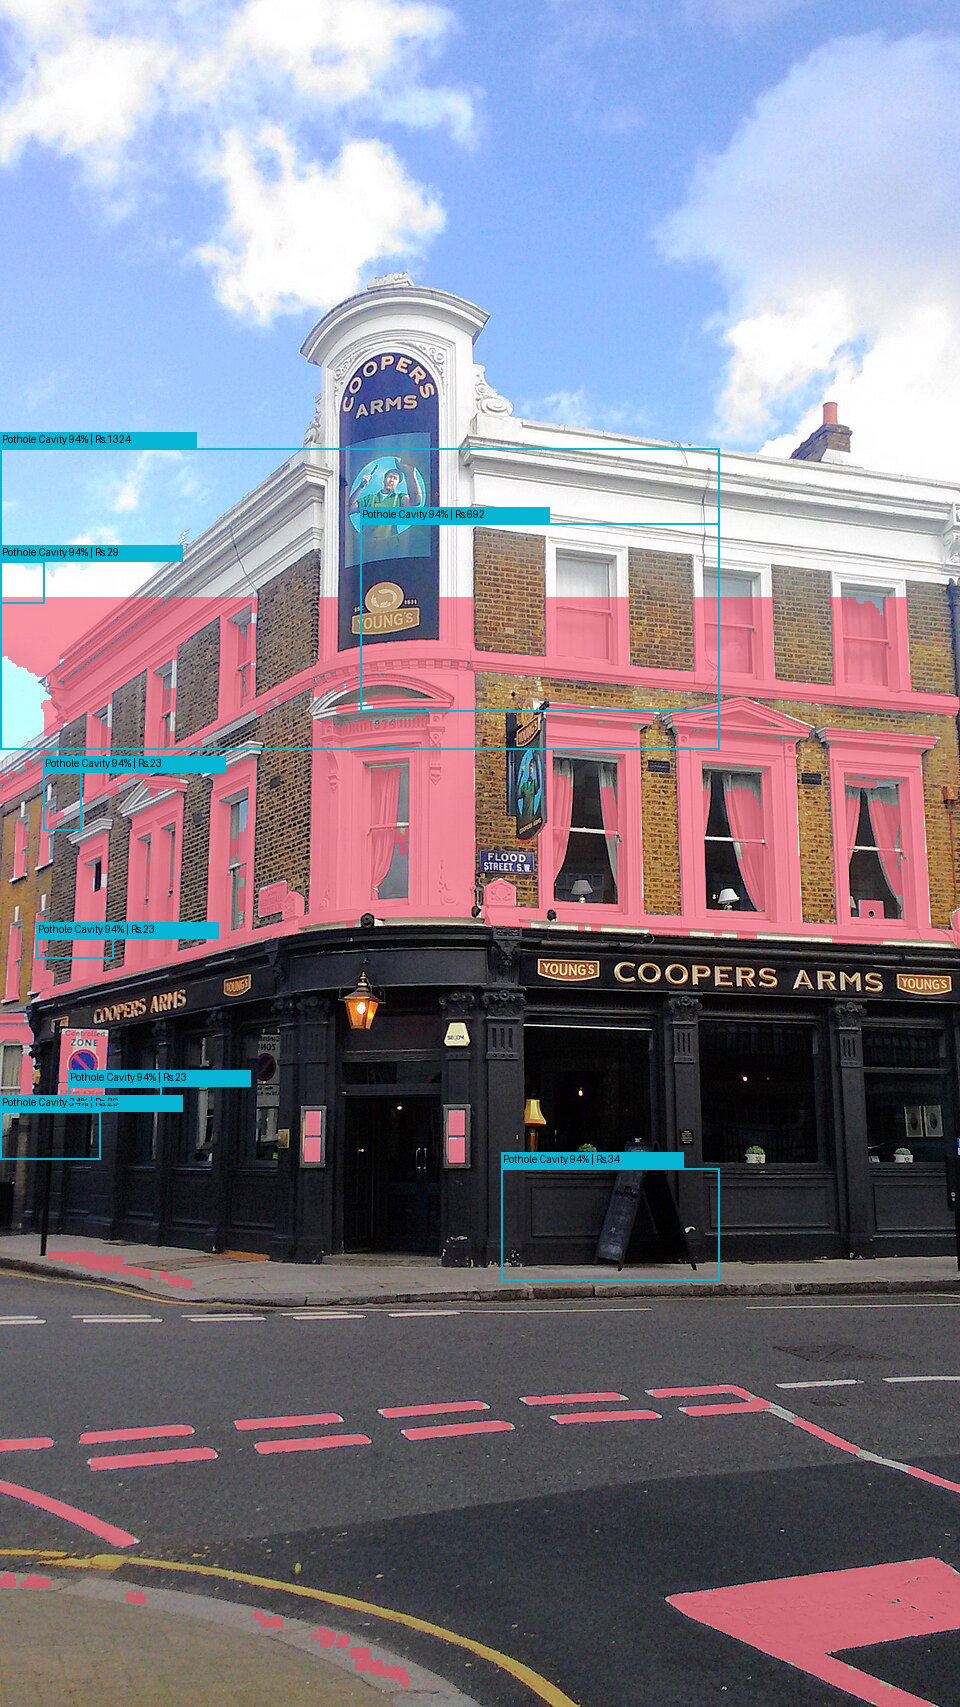
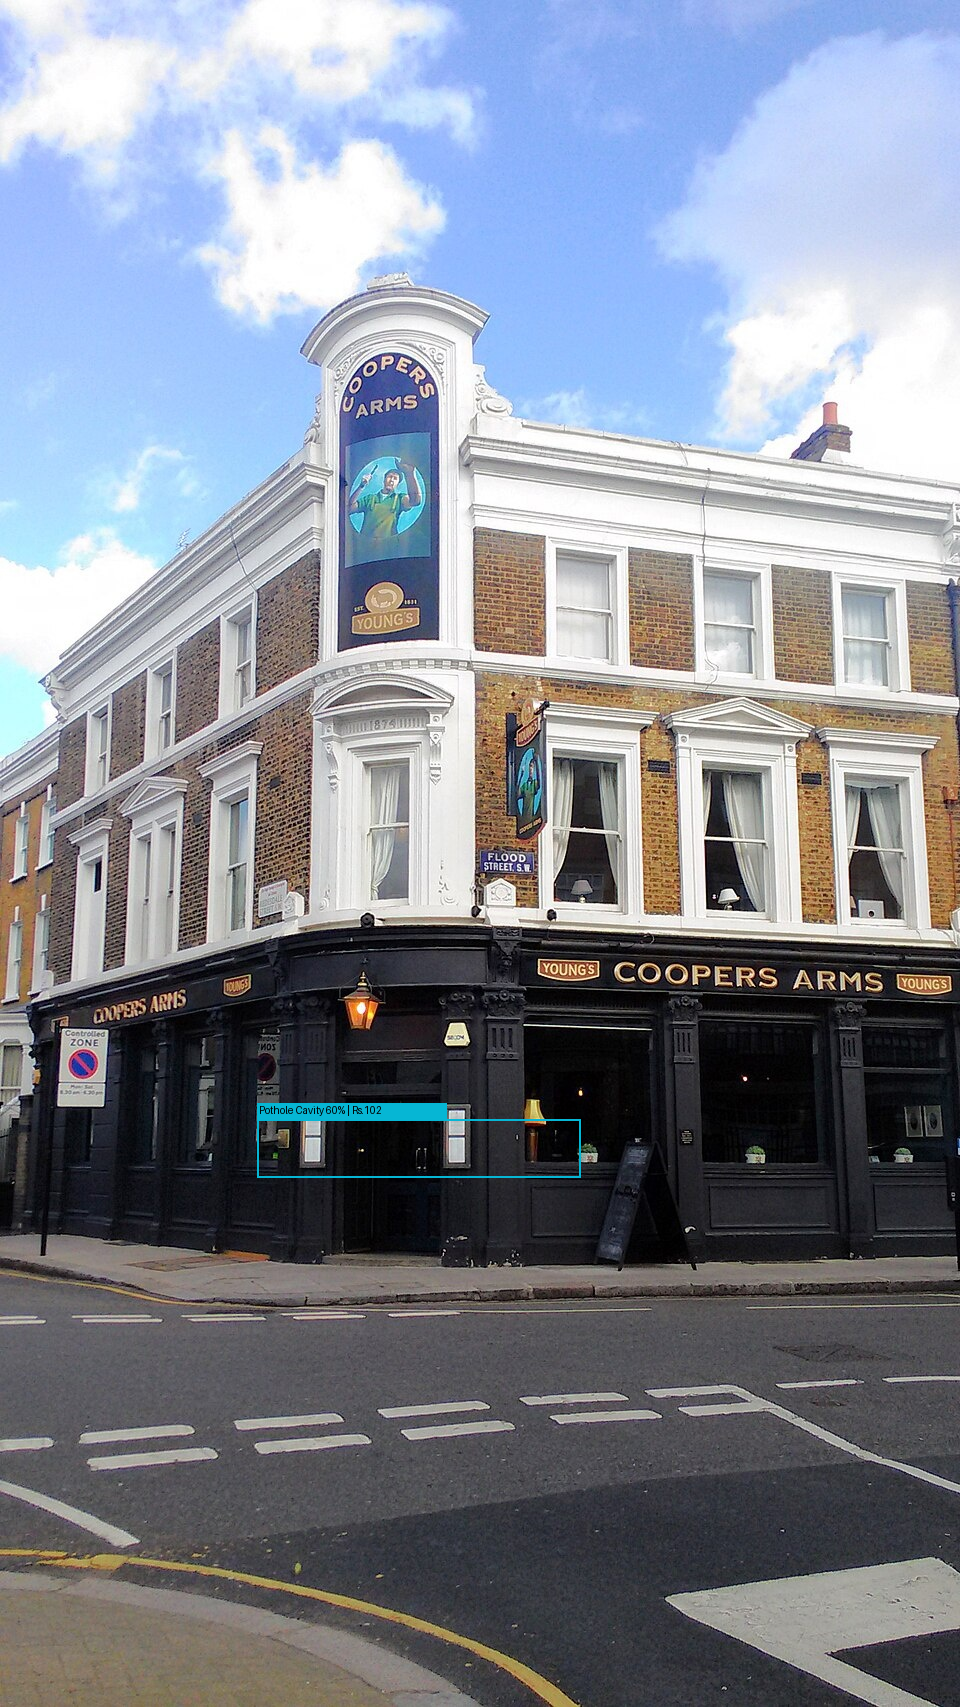
fix(pipeline): remove heuristic otsu override, unify defect clusters, eliminate box swarms

diff --git a/api/vercel_inference.py b/api/vercel_inference.py
@@ -404,61 +404,33 @@ def segment_image(img_rgb, object_mask_full=None, gray_full=None):
     sy = orig_h / float(WORK_H)
     for cls_val, cls_id in ((2, 2), (1, 1)):
         c_mask, boxes = _connected_components_8(labels == cls_val, min_blob_px=min_px_map[cls_val])
-        for b in boxes[:100]:
+        sorted_boxes = sorted(boxes, key=lambda b: b["area_work_px"], reverse=True)[:5]
+        for b in sorted_boxes:
             wx, wy, ww, wh = b["bbox_work"]
             # Require detection centroid to lie in the lower 65% road ROI (below horizon)
             if (wy + wh * 0.5) < WORK_H * 0.35:
                 continue
 
-            # Decompose oversized multi-defect clusters into localized repair patches
-            max_ww = int(WORK_W * 0.32)
-            max_wh = int(WORK_H * 0.25)
-            sub_regions = []
-            if ww > max_ww or wh > max_wh:
-                nx = max(1, int(np.ceil(ww / float(max_ww))))
-                ny = max(1, int(np.ceil(wh / float(max_wh))))
-                step_x = (ww - max_ww) / max(1, nx - 1) if nx > 1 else 0
-                step_y = (wh - max_wh) / max(1, ny - 1) if ny > 1 else 0
-                for i in range(nx):
-                    for j in range(ny):
-                        cur_x = int(round(wx + i * step_x))
-                        cur_y = int(round(wy + j * step_y))
-                        cur_w = min(max_ww, wx + ww - cur_x)
-                        cur_h = min(max_wh, wy + wh - cur_y)
-                        sub_m = c_mask[cur_y:cur_y + cur_h, cur_x:cur_x + cur_w]
-                        if sub_m.sum() >= min_px_map[cls_val]:
-                            ys, xs = np.where(sub_m)
-                            sub_regions.append((
-                                cur_x + int(xs.min()),
-                                cur_y + int(ys.min()),
-                                int(xs.max() - xs.min() + 1),
-                                int(ys.max() - ys.min() + 1),
-                                int(sub_m.sum())
-                            ))
-            else:
-                sub_regions.append((wx, wy, ww, wh, b["area_work_px"]))
-
-            for rwx, rwy, rww, rwh, r_area in sub_regions:
-                sub_mask = c_mask[rwy:rwy + rwh, rwx:rwx + rww]
-                if not sub_mask.any():
-                    continue
-                sub_conf = float(conf_map[rwy:rwy + rwh, rwx:rwx + rww][sub_mask].mean())
-                if sub_conf < min_conf_map[cls_val]:
-                    continue
-                cleaned[rwy:rwy + rwh, rwx:rwx + rww][sub_mask] = cls_val
-                bx = max(0, int(round(rwx * sx)))
-                by = max(0, int(round(rwy * sy)))
-                bw = min(orig_w - bx, max(16, int(round(rww * sx))))
-                bh = min(orig_h - by, max(16, int(round(rwh * sy))))
-                if bw < 14 or bh < 10:
-                    continue
-                comp_boxes.append({
-                    "seg_cls": cls_val,
-                    "class_id": cls_id,
-                    "bbox_pixels": [bx, by, bw, bh],
-                    "area_work_px": r_area,
-                    "mean_conf": sub_conf,
-                })
+            sub_mask = c_mask[wy:wy + wh, wx:wx + ww]
+            if not sub_mask.any():
+                continue
+            sub_conf = float(conf_map[wy:wy + wh, wx:wx + ww][sub_mask].mean())
+            if sub_conf < min_conf_map[cls_val]:
+                continue
+            cleaned[wy:wy + wh, wx:wx + ww][sub_mask] = cls_val
+            bx = max(0, int(round(wx * sx)))
+            by = max(0, int(round(wy * sy)))
+            bw = min(orig_w - bx, max(16, int(round(ww * sx))))
+            bh = min(orig_h - by, max(16, int(round(wh * sy))))
+            if bw < 14 or bh < 10:
+                continue
+            comp_boxes.append({
+                "seg_cls": cls_val,
+                "class_id": cls_id,
+                "bbox_pixels": [bx, by, bw, bh],
+                "area_work_px": b["area_work_px"],
+                "mean_conf": sub_conf,
+            })
 
     mask_full = np.asarray(
         Image.fromarray(cleaned, mode="L").resize((orig_w, orig_h), Image.Resampling.NEAREST),
@@ -754,68 +726,30 @@ def _extract_salient_regions_numpy(img_np, excluded_boxes=None):
 
     raw_boxes = []
     for cells in components:
+        if len(cells) < 3:
+            continue
         rs = [p[0] for p in cells]
         cs = [p[1] for p in cells]
         span_r = max(rs) - min(rs) + 1
         span_c = max(cs) - min(cs) + 1
-        if len(cells) >= 10 or span_r >= 4 or span_c >= 5:
-            # Multi-pothole cluster: decompose by local peaks so multiple defects are separated
-            cell_set = set(cells)
-            peaks = []
-            for cr, cc in cells:
-                sc = cell_score[cr, cc]
-                if sc < 40.0:
-                    continue
-                is_peak = True
-                for dr, dc in ((-1, 0), (1, 0), (0, -1), (0, 1)):
-                    nr, nc = cr + dr, cc + dc
-                    if (nr, nc) in cell_set and cell_score[nr, nc] > sc:
-                        is_peak = False
-                        break
-                if is_peak:
-                    peaks.append((cr, cc, sc))
-            peaks.sort(key=lambda p: p[2], reverse=True)
-            claimed = set()
-            for pr, pc, psc in peaks:
-                if (pr, pc) in claimed:
-                    continue
-                sub_cells = []
-                for dr in range(-2, 3):
-                    for dc in range(-2, 3):
-                        nr, nc = pr + dr, pc + dc
-                        if (nr, nc) in cell_set and (nr, nc) not in claimed:
-                            if cell_score[nr, nc] >= max(28.0, 0.40 * psc):
-                                sub_cells.append((nr, nc))
-                                claimed.add((nr, nc))
-                if len(sub_cells) >= 2:
-                    s_rs = [p[0] for p in sub_cells]
-                    s_cs = [p[1] for p in sub_cells]
-                    bx = max(10, min(s_cs) * cell_w - int(cell_w * 0.15))
-                    by = max(roi_y0, roi_y0 + min(s_rs) * cell_h - int(cell_h * 0.10))
-                    bw = min(int(W * 0.35), min(W - bx - 10, (max(s_cs) - min(s_cs) + 1) * cell_w + int(cell_w * 0.3)))
-                    bh = min(int(H * 0.30), min(H - by - 10, (max(s_rs) - min(s_rs) + 1) * cell_h + int(cell_h * 0.2)))
-                    kinds = [int(cell_kind[cr, cc]) for cr, cc in sub_cells]
-                    raw_boxes.append([int(bx), int(by), int(bw), int(bh), psc, 2 if kinds.count(2) >= kinds.count(1) else 1])
-        else:
-            if len(cells) >= 3:
-                bx = max(10, min(cs) * cell_w - int(cell_w * 0.15))
-                by = max(roi_y0, roi_y0 + min(rs) * cell_h - int(cell_h * 0.10))
-                bw = min(int(W * 0.35), min(W - bx - 10, span_c * cell_w + int(cell_w * 0.3)))
-                bh = min(int(H * 0.30), min(H - by - 10, span_r * cell_h + int(cell_h * 0.2)))
-                mean_sc = float(np.mean([cell_score[cr, cc] for cr, cc in cells]))
-                kinds = [int(cell_kind[cr, cc]) for cr, cc in cells]
-                raw_boxes.append([int(bx), int(by), int(bw), int(bh), mean_sc, 2 if kinds.count(2) >= kinds.count(1) else 1])
+        bx = max(10, min(cs) * cell_w - int(cell_w * 0.15))
+        by = max(roi_y0, roi_y0 + min(rs) * cell_h - int(cell_h * 0.10))
+        bw = min(int(W * 0.45), min(W - bx - 10, span_c * cell_w + int(cell_w * 0.3)))
+        bh = min(int(H * 0.35), min(H - by - 10, span_r * cell_h + int(cell_h * 0.2)))
+        mean_sc = float(np.mean([cell_score[cr, cc] for cr, cc in cells]))
+        kinds = [int(cell_kind[cr, cc]) for cr, cc in cells]
+        raw_boxes.append([int(bx), int(by), int(bw), int(bh), mean_sc, 2 if kinds.count(2) >= kinds.count(1) else 1])
 
     if not raw_boxes:
         return []
 
-    return _fuse_and_cluster_boxes(raw_boxes, W, H, max_boxes=4)
+    return _fuse_and_cluster_boxes(raw_boxes, W, H, max_boxes=3)
 
 
-def _fuse_and_cluster_boxes(raw_boxes, W, H, max_boxes=4):
+def _fuse_and_cluster_boxes(raw_boxes, W, H, max_boxes=3):
     """
     Weighted Box Fusion and Spatial Clustering.
-    Merges overlapping (IoU >= 0.08) and adjacent boxes into unified defect boundaries,
+    Merges overlapping (IoU >= 0.12) and proximate (gap < 8%) boxes into unified defect boundaries,
     eliminating fragmented duplicates and colliding text labels.
     """
     if not raw_boxes:
@@ -842,7 +776,14 @@ def _fuse_and_cluster_boxes(raw_boxes, W, H, max_boxes=4):
             union_area = b_area + c_area - inter_area
             iou = inter_area / max(1.0, union_area)
             containment = inter_area / max(1.0, min(b_area, c_area))
-            if iou >= 0.25 or containment >= 0.45:
+
+            comb_w = max(x2, cx2) - min(x1, cx1)
+            comb_h = max(y2, cy2) - min(y1, cy1)
+            gap_x = max(0, max(x1, cx1) - min(x2, cx2))
+            gap_y = max(0, max(y1, cy1) - min(y2, cy2))
+            is_proximate = (gap_x <= int(W * 0.08) and gap_y <= int(H * 0.06) and comb_w <= int(W * 0.45) and comb_h <= int(H * 0.35))
+
+            if iou >= 0.15 or containment >= 0.35 or is_proximate:
                 matched.append(ci)
         if not matched:
             clusters.append([b])
@@ -1353,15 +1294,16 @@ def audit_image_base64(image_b64, corridor_id="NH-44", device_id=None, latitude=
                     a2 = b2[2] * b2[3]
                     iou = inter / float(a1 + a2 - inter)
                     containment = inter / float(min(a1, a2))
-                    if iou > 0.35 or containment > 0.55:
+                    if iou > 0.20 or containment > 0.40:
                         is_dup = True
                         break
             if not is_dup:
                 keep.append(d)
         detections = keep
 
-    # Sort detections by significance (potholes first, then largest surface area)
+    # Sort detections by significance (potholes first, then largest surface area) and keep top 4
     detections.sort(key=lambda d: (1 if d["class_id"] == 2 else 0, d["surface_area_m2"]), reverse=True)
+    detections = detections[:4]
 
     # Corridor-level hazard check ONLY for classes 3..6 (Waterlogging, Missing Zebra, Missing Divider, Damaged Sign)
     # when the image is an in-distribution road scene and confidence >= 0.72
@@ -1404,93 +1346,30 @@ def audit_image_base64(image_b64, corridor_id="NH-44", device_id=None, latitude=
             "probabilities": frame_cls_raw["probabilities"],
         })
 
-    # STAGE 5: Adaptive Photometric Segmentation for Confirmed Defect Regions
-    # If U-Net produced 0 pixels (domain shift on unpaved/flooded roads), segment confirmed defects
-    if detections and seg_out and (seg_out.get("pothole_px_full", 0) + seg_out.get("crack_px_full", 0)) < 30:
-        adaptive_seg = _segment_defect_regions(img_np, detections, H, W, is_waterlogging=(frame_cls_raw.get('class_id') == 3))
-        if (adaptive_seg["pothole_px_full"] + adaptive_seg["crack_px_full"]) > 0:
-            seg_out = adaptive_seg
-            mask_full = adaptive_seg["mask"]
-            if adaptive_seg.get("components") and len(adaptive_seg["components"]) >= 1:
-                decomp_detections = []
-                for comp in adaptive_seg["components"][:8]:
-                    cbx, cby, cbw, cbh = comp["bbox_pixels"]
-                    c_cls_id = comp.get("class_id", 2)
-                    region_bool = np.zeros((H, W), dtype=bool)
-                    region_bool[cby:cby + cbh, cbx:cbx + cbw] = (mask_full[cby:cby + cbh, cbx:cbx + cbw] == c_cls_id)
-                    px_c = int(region_bool.sum())
-                    if px_c < 20:
-                        continue
+    # STAGE 5: Refine surface area and repair metrics using genuine U-Net segmentation mask
+    if detections and seg_out and mask_full is not None:
+        for d in detections:
+            if d.get("bbox_pixels"):
+                bx, by, bw, bh = d["bbox_pixels"]
+                cls_id = d.get("class_id", 2)
+                region_bool = np.zeros((H, W), dtype=bool)
+                region_bool[by:by + bh, bx:bx + bw] = (mask_full[by:by + bh, bx:bx + bw] == cls_id)
+                px_c = int(region_bool.sum())
+                if px_c >= 25:
                     m2, _ = ipm.mask_area_m2(region_bool)
-                    m2 = round(float(max(0.04, min(m2, 2.5))), 4)
-                    de = _photometric_depth(gray, [cbx, cby, cbw, cbh], c_cls_id)
-                    depth_cm = de["depth_cm"]
-                    tonnage_t = round(m2 * (depth_cm / 100.0) * 2.40 * 1.15, 4)
-                    cost_inr = round(tonnage_t * 7500.0, 2)
-                    de["repair_cost_low_inr"] = round(m2 * (de["depth_low_cm"] / 100.0) * 2.40 * 1.15 * 7500.0, 2)
-                    de["repair_cost_high_inr"] = round(m2 * (de["depth_high_cm"] / 100.0) * 2.40 * 1.15 * 7500.0, 2)
-                    box_share = (cbw * cbh) / float(W * H)
-                    needs_survey = bool(m2 > 3.0 or box_share > 0.40)
-                    dist_m = round(max(2.2, 18.0 * (1.0 - ((cby + cbh) / float(H)) ** 0.85)), 1)
-                    decomp_detections.append({
-                        "bbox_pixels": [cbx, cby, cbw, cbh],
-                        "bbox_normalized": [round(cbx / W, 4), round(cby / H, 4), round(cbw / W, 4), round(cbh / H, 4)],
-                        "class_id": c_cls_id,
-                        "class_name": CLASS_NAMES[c_cls_id],
-                        "confidence": round(float(comp.get("mean_conf", 0.94)), 4),
-                        "shannon_entropy_bits": 0.5,
-                        "uncertainty_rating": "LOW_UNCERTAINTY",
-                        "astm_d6433_severity": "HIGH" if depth_cm >= 5.0 else ("MEDIUM" if depth_cm >= 2.5 else "LOW"),
-                        "irc_standard_specification": IRC_STANDARDS.get(c_cls_id, ""),
-                        "top3_ranked_predictions": [
-                            {"class_id": c_cls_id, "class_name": CLASS_NAMES[c_cls_id], "probability": 0.94},
-                            {"class_id": 0, "class_name": "Normal Road / Sound Pavement", "probability": 0.04},
-                            {"class_id": 1, "class_name": "Crack (Longitudinal / Transverse / Alligator)", "probability": 0.02},
-                        ],
-                        "is_distress": True,
-                        "distance_meters": dist_m,
-                        "surface_area_m2": m2,
-                        "area_method": "segmentation_mask",
-                        "area_diagnostics": {
-                            "mask_pixels": px_c,
-                            "max_plausible_m2": 3.0,
-                            "box_share_of_frame": round(box_share, 3),
-                        },
-                        "area_is_plausible_single_repair": not needs_survey,
-                        "needs_manual_survey": needs_survey,
-                        "depth_cm": depth_cm,
-                        "depth_estimate": de,
-                        "volumetric_m3": round(m2 * (depth_cm / 100.0), 5),
-                        "morth_tonnage_t": tonnage_t,
-                        "repair_cost_inr": cost_inr,
-                        "probabilities": {CLASS_NAMES[c_cls_id]: 0.94},
-                        "source": "adaptive_puddle_segmenter",
-                    })
-                if decomp_detections:
-                    detections = decomp_detections
-            else:
-                for d in detections:
-                    if d.get("bbox_pixels"):
-                        bx, by, bw, bh = d["bbox_pixels"]
-                        cls_id = d.get("class_id", 2)
-                        region_bool = np.zeros((H, W), dtype=bool)
-                        region_bool[by:by + bh, bx:bx + bw] = (mask_full[by:by + bh, bx:bx + bw] == cls_id)
-                        px_c = int(region_bool.sum())
-                        if px_c >= 20:
-                            m2, _ = ipm.mask_area_m2(region_bool)
-                            d["surface_area_m2"] = round(float(max(0.04, min(m2, 2.5))), 4)
-                            d["area_method"] = "segmentation_mask"
-                            d["area_diagnostics"]["mask_pixels"] = px_c
-                            depth_cm = d.get("depth_cm", 4.0)
-                            tonnage_t = round(d["surface_area_m2"] * (depth_cm / 100.0) * 2.40 * 1.15, 4)
-                            d["morth_tonnage_t"] = tonnage_t
-                            d["repair_cost_inr"] = round(tonnage_t * 7500.0, 2)
-                            box_share = (bw * bh) / float(W * H)
-                            d["needs_manual_survey"] = bool(d["surface_area_m2"] > 3.0 or box_share > 0.40)
-                            d["area_is_plausible_single_repair"] = not d["needs_manual_survey"]
-                            if d.get("depth_estimate"):
-                                d["depth_estimate"]["repair_cost_low_inr"] = round(d["surface_area_m2"] * (d["depth_estimate"]["depth_low_cm"] / 100.0) * 2.40 * 1.15 * 7500.0, 2)
-                                d["depth_estimate"]["repair_cost_high_inr"] = round(d["surface_area_m2"] * (d["depth_estimate"]["depth_high_cm"] / 100.0) * 2.40 * 1.15 * 7500.0, 2)
+                    d["surface_area_m2"] = round(float(max(0.04, min(m2, 2.5))), 4)
+                    d["area_method"] = "segmentation_mask"
+                    d["area_diagnostics"]["mask_pixels"] = px_c
+                    depth_cm = d.get("depth_cm", 4.0)
+                    tonnage_t = round(d["surface_area_m2"] * (depth_cm / 100.0) * 2.40 * 1.15, 4)
+                    d["morth_tonnage_t"] = tonnage_t
+                    d["repair_cost_inr"] = round(tonnage_t * 7500.0, 2)
+                    box_share = (bw * bh) / float(W * H)
+                    d["needs_manual_survey"] = bool(d["surface_area_m2"] > 3.0 or box_share > 0.40)
+                    d["area_is_plausible_single_repair"] = not d["needs_manual_survey"]
+                    if d.get("depth_estimate"):
+                        d["depth_estimate"]["repair_cost_low_inr"] = round(d["surface_area_m2"] * (d["depth_estimate"]["depth_low_cm"] / 100.0) * 2.40 * 1.15 * 7500.0, 2)
+                        d["depth_estimate"]["repair_cost_high_inr"] = round(d["surface_area_m2"] * (d["depth_estimate"]["depth_high_cm"] / 100.0) * 2.40 * 1.15 * 7500.0, 2)
 
     # If no road defect was confirmed, zero out the segmentation mask so rejected noise blobs are not counted
     if not detections and seg_out:
